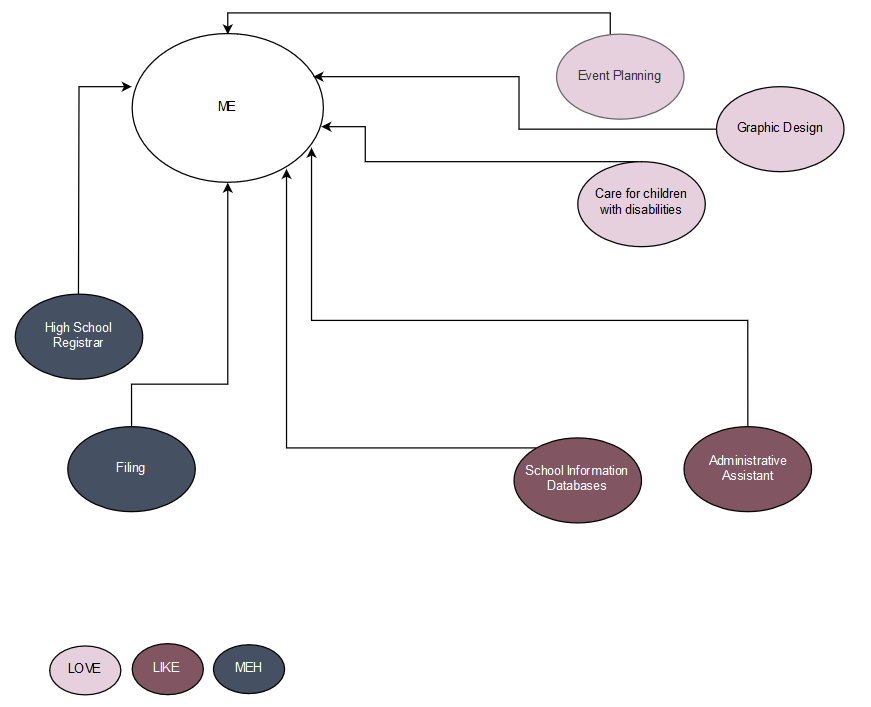
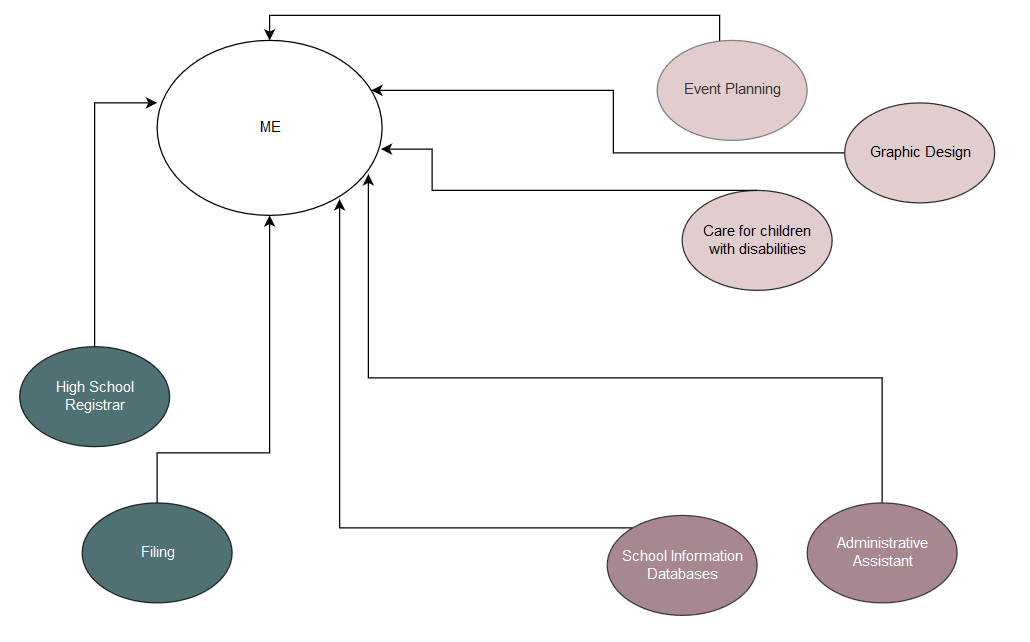
added image for golden circle

diff --git a/prodev.html b/prodev.html
@@ -3,7 +3,6 @@
 	<head>
 		<meta charset="utf-8">
 		<title>Professional Development</title>
-		<link rel="stylesheet" href="./style.css">
 	</head>
 	<body>
 	<div>
@@ -24,7 +23,7 @@
 		<h2>Pro Dev Activities</h2>
 			<div>
 			<h3>Concept Map</h3>
-			<img id="conceptMap" src="concept-map.png" alt="concept map">
+			<img src="concept-map.png" alt="concept map">
 			</div>
 			<div>
 			<h3>Q & Q</h3>
@@ -52,7 +51,13 @@
 			<br>
 			<div>
 				<h3>Golden Circle</h3>
-				<img src="" alt="Golden Circle">
+				<img src="golden-circle.png" alt="Golden Circle">
+			</div>
+			<br>
+			<div>
+				<h3>Elevator Pitch</h3>
+				<p>I am a Fullstack Web Developer looking for a challenging position with innovative work environment.</p>
+				<p>I have sharp eye for aesthetic and design as well as attention to small details.</p>
 			</div>
 		</div>
 		<br>
@@ -68,4 +73,5 @@
 		</div>
 	</div>
 	</body>
+	<p><a href="Index.html">Home</a></p>
 </html>

diff --git a/Index.html b/Index.html
@@ -3,16 +3,15 @@
 	<head>
 		<meta charset="utf-8">
 		<title>Annalise Jaramillo</title>
-		<link rel="stylesheet" href="./style.css">
 	</head>
-	<body id="indexBody">
+	<body>
 	<div>
-		<div class="title">
-		<h1 id="name">Annalise Jaramillo</h1>
+		<div>
+		<h1>Annalise Jaramillo</h1>
 			<br>
 		</div>
 		<br>
-		<div id="proDevLinks">
+		<div>
 		<p><a href="prodev.html">Pro Dev</a></p>
 		<p><a href="https://www.linkedin.com/in/annalise-jaramillo-324688189/" target="blank">LinkedIn</a></p>
 		<p><a href="resume.png" target="blank">Resume</a></p>
